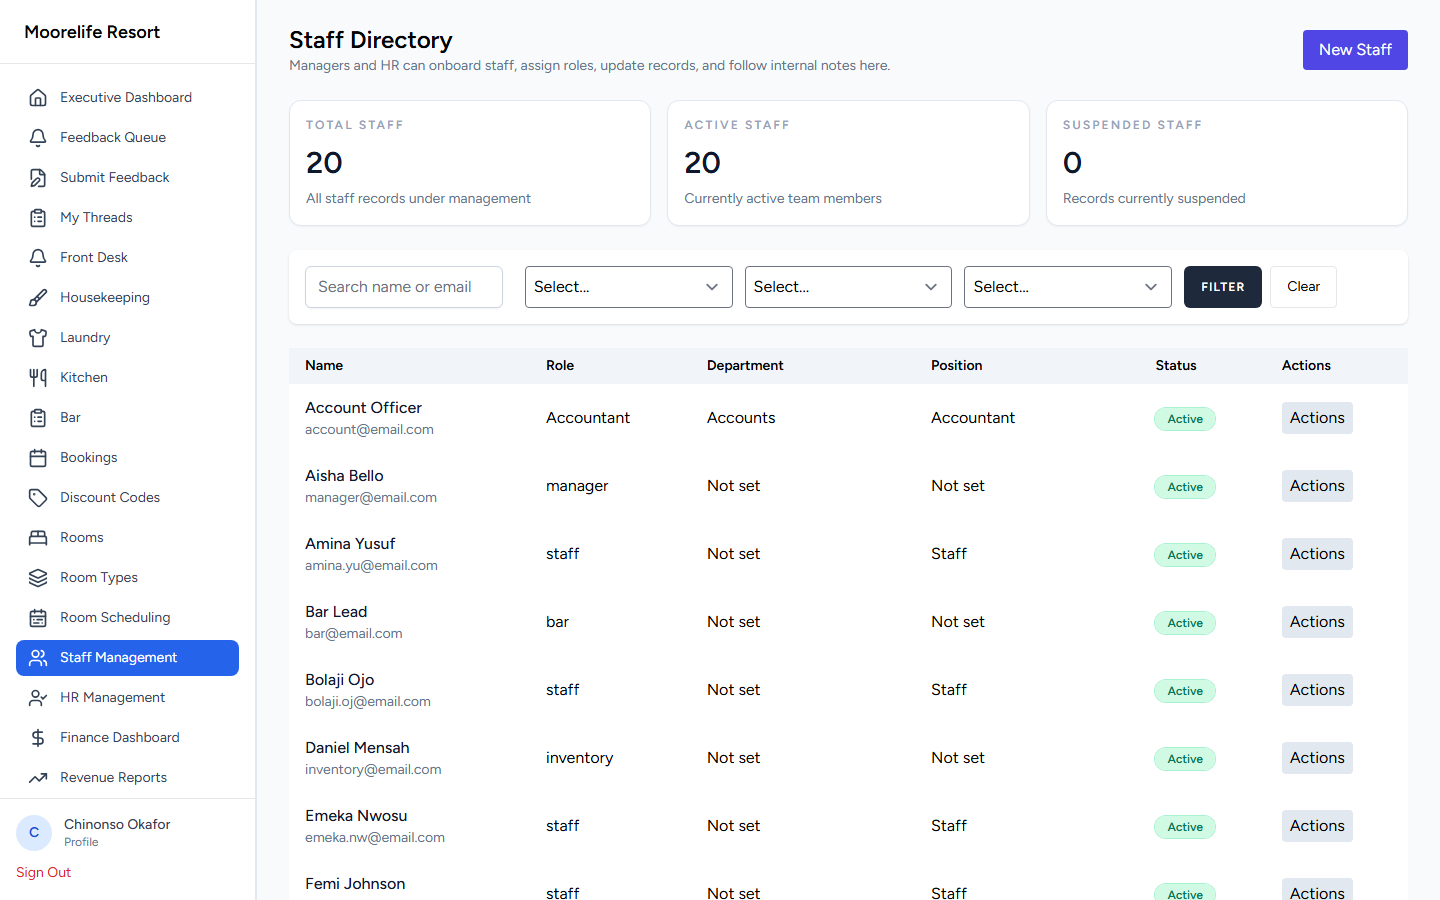
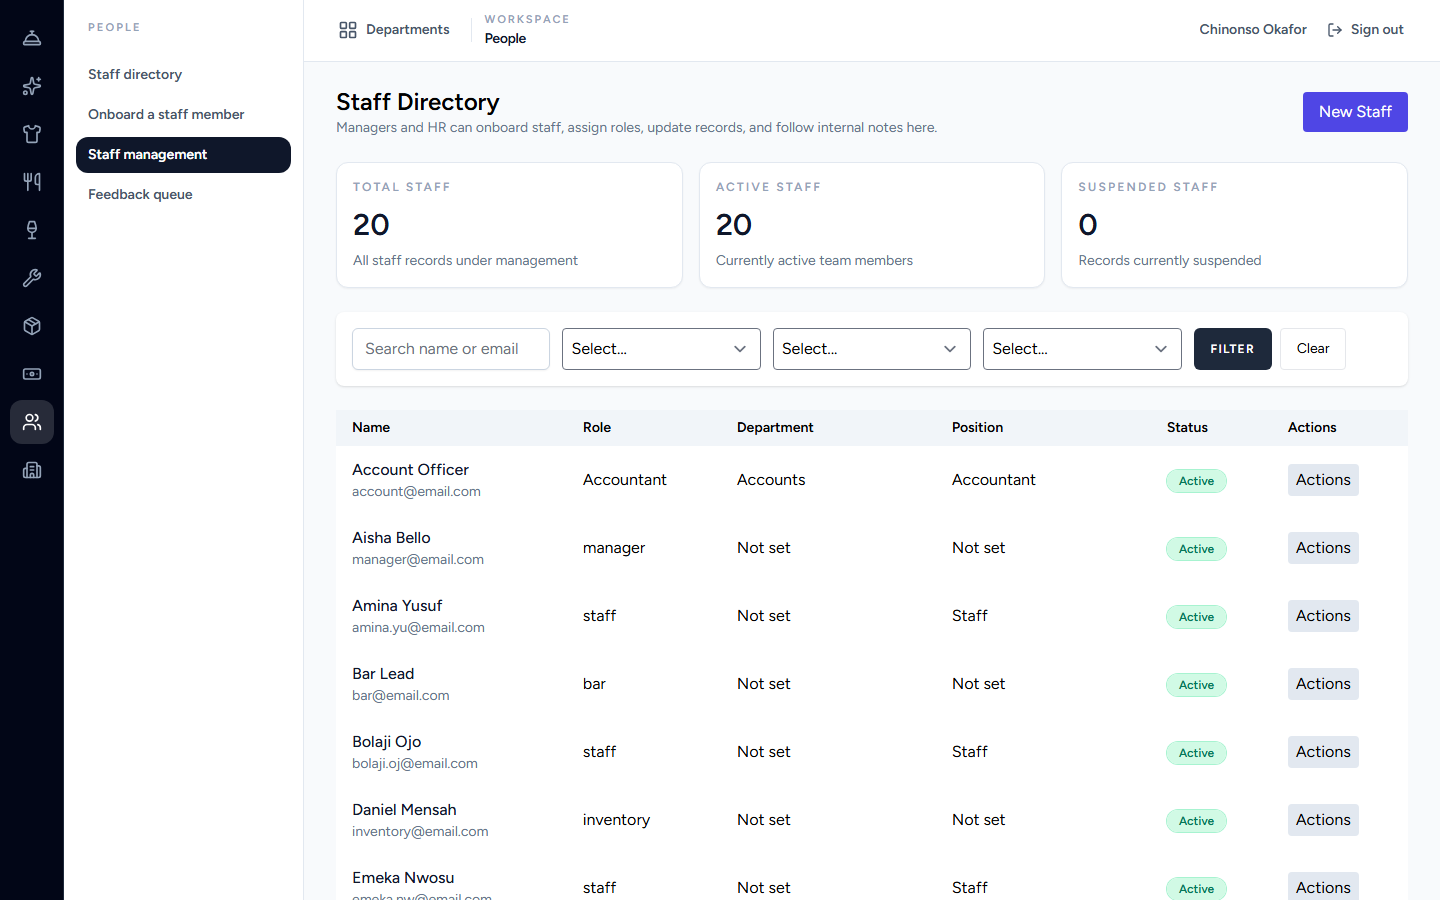
Update case study with current product state and new screenshots

diff --git a/README.md b/README.md
@@ -1,13 +1,14 @@
 # HotelMS — Hotel, Resort & Club Operations Platform
 
-> A full hotel operations system: reservations and front desk, housekeeping and department queues, QR-based room service, club POS, multi-gateway payments, HR-lite staff management, inventory, and an analytics layer for managers — plus an offline-capable front-desk terminal.
+> A full hotel operations system: reservations and front desk, department workspaces for every team, QR-based room service, club POS, multi-gateway payments, HR-lite staff management, inventory, and an accounting layer for managers — packaged as an installable desktop server with annual licensing.
 
 | | |
 |---|---|
-| **Role** | Solo — product design, architecture, backend, frontend, desktop terminal |
-| **Timeline** | 2025 – 2026 · 578 commits |
-| **Stack** | Laravel 12 · PHP 8.2+ · Vue 3 · Inertia.js · Tailwind CSS 4 · MySQL/MariaDB · PostgreSQL · Tauri 2 · Luau/Ziggy · PHPUnit |
-| **Deployment** | Dockerised cloud deployment + on-premise LAN node for offline operation |
+| **Role** | Solo — product design, architecture, backend, frontend, desktop packaging, licensing |
+| **Timeline** | 2025 – 2026 · 647 commits |
+| **Stack** | Laravel 12 · PHP 8.4 · Vue 3 · Inertia.js · Tailwind CSS 4 · MySQL/MariaDB · PostgreSQL · Tauri 2 · PHPUnit · Playwright |
+| **Deployment** | Dockerised cloud deployment, or a bundled on-premise installer (app + runtime + PostgreSQL) |
+| **Commercial model** | 30-day trial, annual per-property licence, offline-verified |
 
 > **The source code for this project is private.** This repository is a technical case study with real screenshots from the running application. Code walkthroughs available on request.
 
@@ -15,53 +16,64 @@
 
 ## The problem
 
-A resort does not run on one system. Reservations live in a booking tool, room service is taken over the phone, housekeeping uses a paper list, the club has its own till, and management reporting is assembled by hand every Monday. Guests see the seams.
+A resort does not run on one system. Reservations live in a booking tool, room service is taken over the phone, housekeeping works from a paper list, the club has its own till, and management reporting is assembled by hand every Monday. Guests see the seams.
 
-HotelMS is an attempt to run the whole property from one data model — public website and booking flow on one end, and department-level operational queues on the other — while respecting a hard operational constraint: **the front desk cannot stop working when the internet does.**
+Two constraints shaped the design:
+
+1. **Every department needs a different app.** A housekeeper needs a room board, not a 28-item sidebar. A front-desk agent needs arrivals and billing, not payroll.
+2. **The property cannot stop when the internet does.** A hotel on a weak WAN still needs to check guests in, take payment, and serve dinner.
+
+HotelMS answers both: a department-first workspace shell over one shared data model, plus an offline-capable terminal track and a self-hosted install path that does not depend on a cloud connection at all.
 
 ---
 
 ## Product tour
 
-### Manager operations console
+### Department workspaces
 
-![Manager dashboard](screenshots/01-manager-operations-console.png)
+![Administration workspace](screenshots/01-administration-workspace.png)
 
-The console is built around what a duty manager needs in the first thirty seconds: occupancy, available rooms, arrivals and departures today, plus an *action board* of pressure points — guest requests, maintenance tickets, cleaning backlog, unsettled stays. Everything on the board links into the filtered view that resolves it.
+The shell is now a **workspace rail plus contextual sub-navigation**. Each icon is a department (Front Office, Housekeeping, Laundry, Kitchen, Bar, Maintenance, Stores, Finance, People, Administration, Platform); the second column shows only that workspace's modules. A user with access to more than one department gets a department picker after login; access is explicit per user in the database and enforced by middleware, not by hiding links.
 
-### Booking oversight
+Routes are workspace-prefixed (`/d/front-office/bookings`, `/d/finance/reports/profit-loss`) while route **names** stayed stable, so the 600-plus-commit codebase moved under a new URL scheme without rewriting every controller and test.
 
-![Booking board](screenshots/02-booking-board.png)
+### Front desk
 
-A reservation-to-checkout board with date reference, guest search, status filters, arrivals, in-house and unsettled-stay counters. Check-in, check-out, charge posting and price-override approvals are guarded actions with their own permission checks.
+![Front desk dashboard](screenshots/02-front-desk-dashboard.png)
 
-### Occupancy and reporting
+Occupancy, availability, arrivals and departures plus a **live service feed** and a **financial watchlist** of unsettled stays. The desk sees what needs action, not a chart of last month.
 
-![Occupancy report](screenshots/03-occupancy-reporting.png)
+![Booking board](screenshots/03-booking-board.png)
 
-Date-filtered occupancy reporting with a trend view and XLSX export. A deliberate design decision: the report states its own caveats inline ("0 occupied rooms, 72 rooms available now") instead of leaving the manager to guess what the number means.
+The booking board carries a front-desk cutoff rule with an explicit explanation ("arrivals more than 48 hours out are taken on the online channel"), date-reference switching, guest search, status filters, and guarded check-in / check-out actions.
 
-### Staff directory
-
-![Staff directory](screenshots/04-staff-directory.png)
-
-Staff records with role, department and position, filterable, with role-gated create and edit. Roles drive both navigation and API authorisation: `md`, `manager`, `frontdesk`, `housekeeping`, `laundry`, `kitchen`, `bar`, `inventory`, `staff`, `guest`.
-
-### Inventory ledger
+### Stores and inventory
 
 ![Inventory ledger](screenshots/05-inventory-ledger.png)
 
-Stock is tracked **by location** (main store, housekeeping store) with per-item reorder thresholds, and every adjustment is a movement — add, use, transfer, reconcile. The "low stock" count is derived, not stored, so it cannot drift from reality.
+Stock is tracked **by location** with per-item reorder thresholds, and every change is a movement — add, use, transfer, reconcile. Low-stock counts are derived, never stored, so they cannot drift from the ledger.
+
+### People
+
+![Staff directory](screenshots/04-staff-directory.png)
+
+Staff records with role, department and position, filterable, with role-gated create and edit. Roles drive both navigation and route authorisation.
+
+### Reporting
+
+![Occupancy reporting](screenshots/06-occupancy-reporting.png)
+
+Date-filtered occupancy with a trend view and XLSX export. The report states its own caveats inline ("6 occupied rooms, 66 rooms available now") instead of leaving the manager to guess what the number means.
 
 ### Guest-facing surfaces
 
-![Club lounge](screenshots/06-club-lounge.png)
+![Club lounge](screenshots/07-club-lounge.png)
 
-![Events](screenshots/07-events.png)
+![Events](screenshots/08-events.png)
 
-![Public booking](screenshots/08-public-booking.png)
+![Public booking](screenshots/09-public-booking.png)
 
-The public site is part of the same product: a marketing site, gallery, club/lounge page with an events calendar and ticketing, and a booking flow (search → availability → room selection → guest details → review → payment) that writes into the same reservations model the front desk uses.
+The public site is part of the same product: marketing pages, gallery, club/lounge with an events calendar and ticketing, and a booking flow (search → availability → room selection → guest details → review → payment) writing into the same reservations model the front desk uses.
 
 ---
 
@@ -70,30 +82,38 @@ The public site is part of the same product: a marketing site, gallery, club/lou
 ### Reservations and front desk
 - Availability search, room selection, guest details, review and payment steps
 - Check-in / check-out with status transitions, in-house and unsettled-stay tracking
-- Charges posted to a stay; discount codes; price-override approvals with an explicit approve/reject workflow
+- Charges posted to a stay, discount codes, price-override approvals with an approve/reject workflow
 - QR-code room access with signed URLs, per-room QR generation, regeneration and invalidation
+- Front-desk cutoff policy on how far ahead the desk may book
 
 ### Department operations
-- **Room service**: guests scan a QR in the room to order; orders land in department-specific queues (kitchen, bar, laundry, housekeeping) with priority and status tracking
+- **Room service**: guests scan a QR in the room to order; tickets land in department queues (kitchen, bar, laundry, housekeeping) with priority and status
+- Housekeeping room board and cleaning templates; maintenance tickets; laundry handling
 - Staff threads and internal notes per department
-- Maintenance tickets, cleaning schedules and backlog tracking
-- Guest feedback collection and a review queue for managers
+- Guest feedback collection with a manager review queue
 
-### Commerce
-- Multi-gateway payments: **Flutterwave and Paystack**, with initialisation, verification, webhook handling and reconciliation
-- Tax calculation on bookings and orders, flexible pricing and promotional rates
-- **Club POS** with its own product catalogue, roles and device registration
+### Commerce and finance
+- Multi-gateway payments (**Flutterwave and Paystack**) with initialisation, verification, webhooks and reconciliation
+- Tax calculation on bookings and orders; flexible pricing and promotions
+- **Club POS** with its own catalogue, roles, shifts and stock, and **settled POS sales posted to the ledger**
+- Accounting periods, chart of accounts, profit & loss, balance sheet, daily revenue and outstanding balances — with CSV/XLSX exports
 - Events and ticketing, including table reservations
 
-### People and finance
-- Staff records, departments, roles and permissions (Spatie-style role model with explicit route guards)
-- HR surface: leave, onboarding, documents, policies, performance
-- Finance dashboard and revenue reports, XLSX export
+### HR and people
+- Staff records, departments, roles and permissions with explicit per-user department access
+- Leave, onboarding, documents, policies and performance surfaces
+
+### Licensing and distribution
+- **Annual licence per property** after a 30-day trial; one licence covers the server and every paired terminal and staff client
+- Licences are **signed with an RSA private key on the licence server** and verified offline by the app using an embedded public key — an installed copy cannot mint its own licence
+- Licence keys stored only as SHA-256 hashes; pricing bands are data, editable by the superuser, in NGN or USD
+- Self-service licence move to a replacement PC
+- Signed auto-update for the desktop app, and a **bundled installer** that ships the application, runtime and PostgreSQL together, with an in-place upgrade test
 
 ### Offline capability
-- A **LAN sync node** so a property can keep working when the WAN link drops: the cloud remains the system of record, but terminals converge through a local node
-- **Tauri 2 front-desk terminal** with pairing, a local database, and an explicit sync-scope manifest describing exactly which entities travel and in which direction
-- A desktop release gate and auto-update design for field terminals
+- A **LAN sync node** so a property keeps working when the WAN link drops
+- **Tauri 2 front-desk terminal** with pairing, a local database, and a sync-scope manifest declaring which entities travel in which direction with which authority
+- Desktop release gate and auto-update design for field terminals
 
 ---
 
@@ -103,10 +123,11 @@ The public site is part of the same product: a marketing site, gallery, club/lou
                     ┌─────────────────────────────────────────┐
    Public web  ───► │  Laravel 12 application                 │
    Guest QR    ───► │                                         │
-                    │  routes/{public,admin,staff,hr,club,    │
-                    │          finance,roomservice}.php       │
+                    │  Workspace registry → route groups      │
+                    │  /d/{workspace}/...                     │
                     │  Controllers → Services → Models        │
-                    │  Policies / role middleware             │
+                    │  Policies · role middleware ·           │
+                    │  per-user department access             │
                     │  Inertia responses → Vue 3 pages        │
                     └───────────────┬─────────────────────────┘
                                     │
@@ -117,40 +138,41 @@ The public site is part of the same product: a marketing site, gallery, club/lou
    │ Postgres │              │  node       │             │  Flutterwave│
    └──────────┘              └──────┬──────┘             │  Paystack   │
                                     │                    └─────────────┘
-                             ┌──────▼───────┐
-                             │ Tauri 2      │
-                             │ front desk   │
-                             │ terminal     │
-                             │ (local DB)   │
-                             └──────────────┘
+                             ┌──────▼───────┐   ┌────────────────────┐
+                             │ Tauri 2      │   │ Licence server     │
+                             │ front desk   │◄─►│ (RSA-signed,       │
+                             │ terminal     │   │  offline verify)   │
+                             └──────────────┘   └────────────────────┘
 ```
 
-### Notable engineering decisions
+### Engineering decisions worth calling out
 
-1. **One model, many surfaces.** Public booking, front desk, department queues and reporting all read and write the same reservations and orders model. No nightly export between systems.
-2. **Route-level authorisation, not just UI hiding.** Every role boundary is enforced by middleware/policies; the UI merely reflects it.
-3. **Derived operational state.** Occupancy, low stock and backlog counts are computed from facts (bookings, movements, tickets) rather than cached counters, which makes them auditable.
-4. **Portability under constraint.** The app ran on shared hosting originally and was deliberately evolved to MySQL/MariaDB, then PostgreSQL, so the same codebase can be deployed on a cheap host or a LAN node.
-5. **Offline terminal with an explicit sync scope.** Rather than syncing "everything", the desktop terminal declares a manifest of entities, directions and authority (e.g. booking authority partitioned between cloud and node) and reconciles against it.
-6. **Payments are state machines.** Initialise → verify → webhook → reconcile, with booking status only advancing on verified payment, and audit rows for every transition.
+1. **Workspace as the navigation and security primitive.** One config file defines each workspace's department, roles, landing route and modules; the rail, the picker, the command index and the route middleware all read from it. The UI and server cannot disagree.
+2. **Per-user department access, not role-as-department.** A user belongs to departments explicitly, backfilled from roles on migration, so a manager can be given Finance without also seeing HR.
+3. **Stable route names, new URLs.** Moving to `/d/{workspace}` was a routing change, not a rewrite — tests and controllers kept addressing routes by name.
+4. **Licensing that works offline.** Signing on the server, verifying in the binary. The installed app never needs to phone home and cannot forge a key.
+5. **Ship the database with the app.** A hotel installer that requires a DBA is not an installer. Bundling PostgreSQL and testing an in-place upgrade is what makes on-premise viable.
+6. **Derived operational state.** Occupancy, low stock and backlog are computed from facts (bookings, movements, tickets) rather than cached counters, which keeps them auditable.
+7. **POS close means posting.** A settled club sale writes to the ledger, so the till and the accounts cannot silently diverge.
 
 ---
 
 ## Testing and quality
 
-- PHPUnit feature and unit suites covering booking lifecycle, payment verification, role boundaries and inventory movements
-- Dedicated E2E SQLite database for walkthrough tests (`database/e2e.sqlite`) and a production walkthrough script
+- PHPUnit feature tests across booking lifecycle, payment verification, role boundaries, inventory movements and report/export round-trips
+- Dedicated E2E database (`database/e2e.sqlite`) and a scripted production walkthrough covering guest surface, POS lifecycle, reports, finance, HR and inventory
+- Route-level access tests for the workspace move, including negative cases for department access and navigation shells
 - Playwright end-to-end runs for critical paths (booking → payment → check-in)
-- Written ADRs and phase plans under `docs/superpowers/` (booking authority partition, sync scope, desktop release gate, walkthrough remediation)
+- Written ADRs, specs and phase plans under `docs/superpowers/` (department workspaces, booking authority partition, sync scope, desktop release gate)
 
 ---
 
 ## Status
 
-Operating as a complete hotel/club platform with an offline terminal track in active development. The next milestones are hardening the LAN-node convergence story and the desktop auto-update pipeline.
+Operating as a complete hotel/club platform. Recent work: department workspaces, the licensing desk, the bundled installer with signed auto-update, and POS-to-ledger posting. Known follow-ups are tracked in the repository — including finishing the department picker on the current branch and extending the workspace docs.
 
 ---
 
 ## Why this project is representative
 
-HotelMS is where I learned to hold a large domain model together across many entry points — public site, guest QR flows, department queues, finance and a desktop terminal — without letting the seams show. It is also the project where I stopped treating tests and written specs as overhead: the walkthrough and sync designs are what made a system this wide possible to change safely.
+HotelMS is where I learned to hold a large domain model together across many entry points — public site, guest QR flows, department workspaces, finance, and a desktop terminal — without letting the seams show. It is also the project where product packaging became part of the engineering: licensing, installers and updates are designed and tested like features, because for a hotel they are the difference between software and a working front desk.
